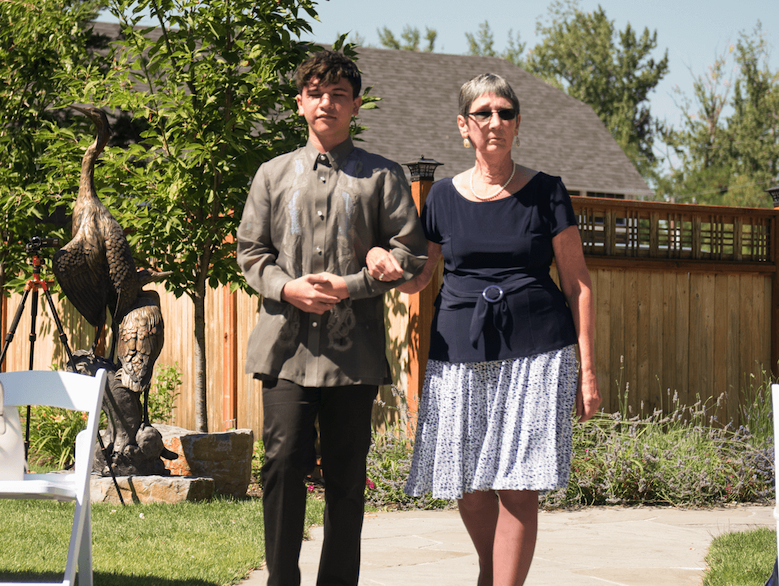
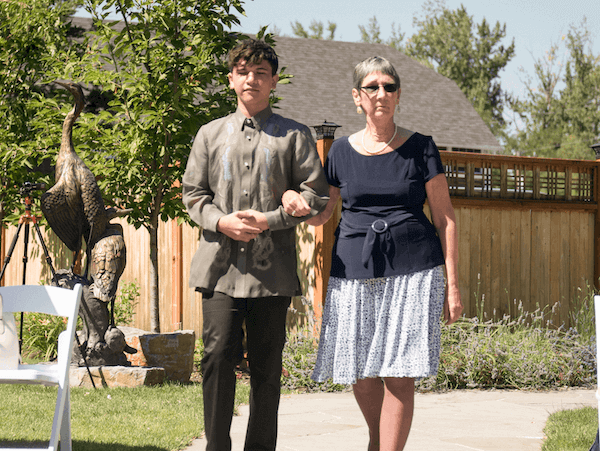
compressed pictures some more and removed pinwheel

diff --git a/index.html b/index.html
@@ -34,9 +34,9 @@
   </head>
   <body>
     <!-- Pinwheel Loader container***** -->
-    <div class="loader">
+    <!-- <div class="loader">
       <div class="inner-loader"></div>
-    </div>
+    </div> -->
 
     <!-- Navigation Bar -->
     <nav id="navbar">
@@ -500,7 +500,7 @@
                 <div>
                   <img
                     class="box-content"
-                    src="./img/B_0214 (2).jpg"
+                    src="./img/B_0214.jpg"
                     alt="Family Picture - Nicole and Lourexel's Wedding 2018"
                   />
                 </div>

diff --git a/script.js b/script.js
@@ -89,11 +89,11 @@ modal.addEventListener('click', function() {
 
 $(function() {
   //pinwheel loader
-  $(window).on('load', () => {
-    $('.loader .inner-loader').fadeOut(300, () => {
-      $('.loader').fadeOut(500);
-    });
-  });
+  // $(window).on('load', () => {
+  //   $('.loader .inner-loader').fadeOut(300, () => {
+  //     $('.loader').fadeOut(500);
+  //   });
+  // });
 
   // Navbar responsive function
   $('#nav').on('click', event => {
